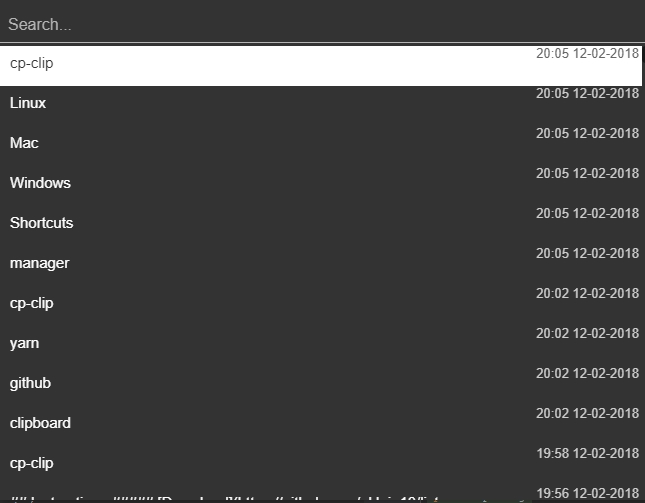
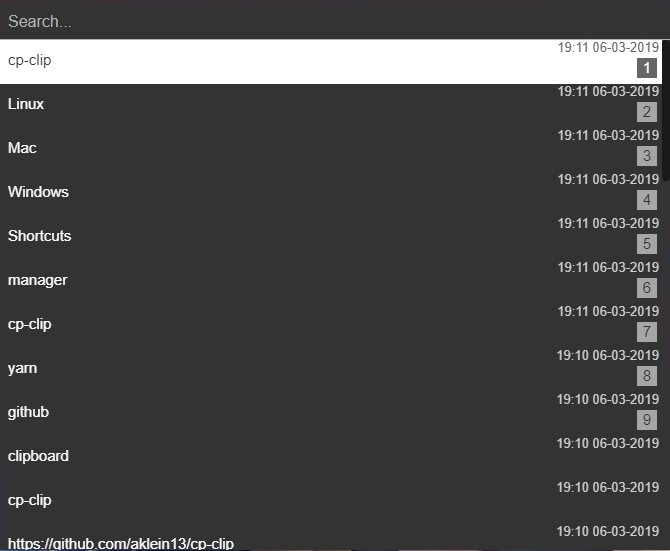
- support paste fro nth element - close on Ctrl+Shift+V when open - rework input rpc events - update README and image

diff --git a/app/main.dev.js b/app/main.dev.js
@@ -175,7 +175,7 @@ const openWindow = () => {
   globalShortcut.register('Down', () => server.send('down'));
   globalShortcut.register('Shift + Down', () => server.send('down_10'));
   globalShortcut.register('Shift + Enter', () => server.send('enter'));
-  globalShortcut.register('Enter', handleEnter);
+  globalShortcut.register('Enter', () => server.send('get_current_value'));
   globalShortcut.register('Escape', closeWindow);
   globalShortcut.register('Backspace', () => server.send('backspace'));
   globalShortcut.register('CommandOrControl + Backspace', () => server.send('clear'));
@@ -185,20 +185,22 @@ const openWindow = () => {
   globalShortcut.register('Plus', () => server.send('plus'));
   server.send('clipboard_history', clipboardHistory);
   ALPHABET.forEach((char) => {
-    globalShortcut.register(char, () => server.send(char));
-    globalShortcut.register(`Shift + ${char}`, () => server.send(char.toUpperCase()));
+    globalShortcut.register(char, () => server.send('write_input', char));
+    globalShortcut.register(`Shift + ${char}`, () => server.send('write_input', char.toUpperCase()));
   });
-  SPECIAL_CHARS.forEach((char) => globalShortcut.register(char, () => server.send(char)));
-  NUMBERS.forEach((char) => globalShortcut.register(char, () => server.send(char)));
+  SPECIAL_CHARS.forEach((char) => globalShortcut.register(char, () => server.send('write_input', char)));
+  NUMBERS.forEach((char) => {
+    globalShortcut.register(char, () => server.send('write_input', char));
+    if (char !== '0') {
+      globalShortcut.register(`CommandOrControl + ${char}`, () => server.send('paste_nth', char));
+    }
+  });
   globalShortcut.unregister('CommandOrControl + Shift + V');
-};
-
-const handleEnter = () => {
-  server.send('get_current_value');
-  closeWindow();
+  globalShortcut.register('CommandOrControl + Shift + V', closeWindow);
 };
 
 const writeFromHistory = ({value}) => {
+  closeWindow();
   clipboard.writeText(value);
   if (isMac) {
     robot.keyTap('v', 'command');
@@ -229,7 +231,7 @@ const registerInitShortcuts = () => {
 const closeWindow = () => {
   globalShortcut.unregisterAll();
   clipboardWindow.hide();
-  registerInitShortcuts();
+  setTimeout(registerInitShortcuts, 0);
 };
 
 const searchLastInGoogle = () => shell.openExternal(`https://www.google.com/search?q=${clipboardHistory[0].value}`);

diff --git a/app/components/History.js b/app/components/History.js
@@ -1,7 +1,6 @@
 // @flow
 import React, {PureComponent} from 'react';
 import Client from 'electron-rpc/client';
-import {ALPHABET, NUMBERS, SPECIAL_CHARS} from '../constants';
 import {List} from 'react-virtualized';
 
 type IProps = {};
@@ -40,24 +39,22 @@ export default class History extends PureComponent<IProps, IState> {
     this.client.on('up_10', () => this.handleUp(10));
     this.client.on('down', () => this.handleDown(1));
     this.client.on('down_10', () => this.handleDown(10));
-    ALPHABET.forEach((char) => {
-      this.client.on(char, () => this.changeSearch(
-        this.state.search + char));
-      const charUpper = char.toUpperCase();
-      this.client.on(charUpper, () => this.changeSearch(this.state.search + charUpper));
-    });
-    SPECIAL_CHARS.forEach((char) => {
-      this.client.on(char, () => this.changeSearch(this.state.search + char));
-    });
-    NUMBERS.forEach((char) => {
-      this.client.on(char, () => this.changeSearch(this.state.search + char));
-    });
+    this.client.on('write_input', (_error, char) => this.changeSearch(this.state.search + char));
     this.client.on('backspace', () => this.changeSearch(this.state.search.slice(0, -1)));
     this.client.on('clear', () => this.changeSearch());
     this.client.on('space', () => this.changeSearch(this.state.search + ' '));
     this.client.on('plus', () => this.changeSearch(this.state.search + '+'));
     this.client.on('enter', () => this.changeSearch(this.state.search + '\n'));
     this.client.on('clear_last', () => this.changeSearch(this.state.search.split(' ').slice(0, -1).join(' ')));
+    this.client.on('paste_nth', (_error, body) => {
+      const position = parseInt(body) || 1;
+      const valueFromHistory = this.state.history[position - 1];
+      if (!valueFromHistory) {
+        return;
+      }
+      this.client.request('value_from_history', valueFromHistory);
+      this.changeSearch();
+    });
   }
 
   changeSearch = (newSearch: string = '') => {
@@ -105,6 +102,7 @@ export default class History extends PureComponent<IProps, IState> {
       >
         {this.state.history[index].value}
         <span className="date">{this.state.history[index].date}</span>
+        {index < 9 && <p className="order">{index + 1}</p>}
       </div>
     );
   };

diff --git a/app/constants.js b/app/constants.js
@@ -1,14 +1,5 @@
 export const ACTIONS = {
-  PLAY_PAUSE: 'play_pause',
-  SET_SONG: 'set_current_song',
-  SET_CHANNEL: 'set_current_channel',
-  LOGIN_ERROR: 'login_error',
-  CLEAR_ERROR: 'clear_auth_error',
   LOGIN_SUCCESS: 'login_success',
-  SET_USER: 'set_token',
-  LOAD_FAVOURITES: 'fetch_favourites',
-  SET_FAVOURITE: 'set_favourite',
-  LOG_OUT: 'log_out',
 };
 
 export type IApiAction = {
@@ -22,7 +13,3 @@ export type IApiAction = {
 export const API_ACTIONS: { [key: string]: IApiAction } = {};
 
 export const API_URL = 'http://localhost:8000/';
-
-export const ALPHABET: string[] = ['a', 'b', 'c', 'd', 'e', 'f', 'g', 'h', 'i', 'j', 'k', 'l', 'm', 'n', 'o', 'p', 'q', 'r', 's', 't', 'u', 'v', 'w', 'x', 'y', 'z'];
-export const SPECIAL_CHARS: string[] = ['~', '!', '"', '\'', '?', '.', ';', '[', ']', '\\', ',', '/', '@', '#', '$', '%', '|', '^', '&', '*', '(', ')', '-', '=', '{', '}', ':', '<', '>', '`', '_'];
-export const NUMBERS: string[] = ['0', '1', '2', '3', '4', '5', '6', '7', '8', '9'];

diff --git a/app/app.global.scss b/app/app.global.scss
@@ -1,5 +1,5 @@
-$fa-font-path: "~font-awesome/fonts";
-@import "~font-awesome/scss/font-awesome";
+//$fa-font-path: "~font-awesome/fonts";
+//@import "~font-awesome/scss/font-awesome";
 //@import "form-reset.css";
 
 $mainColor: #333;
@@ -79,6 +79,7 @@ body {
     position: relative;
     user-select: none;
     cursor: default;
+    display: flex;
 
     .date {
       position: absolute;
@@ -88,12 +89,30 @@ body {
       font-size: 13px;
     }
 
+    .order {
+      color: $mainColor;
+      background-color: darken($text, 35%);
+      display: inline-block;
+      margin: 7px -3px auto auto;
+      float: right;
+      width: 20px;
+      min-width: 20px;
+      height: 20px;
+      line-height: 20px;
+      text-align: center;
+    }
+
     &.active {
       background-color: $text;
       color: $mainColor;
 
       .date {
         color: lighten($mainColor, 20%);
+      }
+
+      .order {
+        color: $text;
+        background-color: lighten($mainColor, 20%);
       }
     }
   }

diff --git a/README.md b/README.md
@@ -8,9 +8,10 @@ Based on [electron-react-boilerplate](https://github.com/chentsulin/electron-rea
 # Shortcuts
 ###### Type to search
 
-- `Control/Command` + `Shift` + `V` = Open clipboard history window
+- `Control/Command` + `Shift` + `V` = Open/close clipboard history window
 - `Escape` = Close history window
 - `Enter` = Paste selected entry from history
+- `Control/Command` + [`1` - `9`] = Paste 1st - 9th element from history
 - `Arrow Up/Down` = Move 1 entry backwards/forwards
 - `Shift` + `Arrow Up/Down` = Move 10 entries backwards/forwards
 - `Control/Command` + `Backspace` = Clear search
